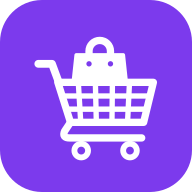
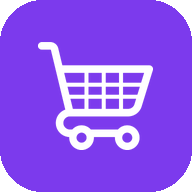
feat: ícono con la forma exacta del carrito de referencia, en blanco (v1.14)
Claude-Session: https://claude.ai/code/session_01DhVgd7Et6QmT3shziodnjZ

diff --git a/js/ui.js b/js/ui.js
@@ -42,12 +42,12 @@ export function icono(nombre) {
   return t.content.firstChild;
 }
 
-// Logo de la app: carrito con bolsa de tienda (mismo dibujo que icono.svg), en el color del texto.
-const LOGO = '<g fill="none" stroke="currentColor" stroke-width="15" stroke-linecap="round" stroke-linejoin="round"><path d="M138 70 V58 a22 22 0 0 1 44 0 V70"/></g><path d="M112 66 H208 L214 122 H106 Z" fill="currentColor" stroke="currentColor" stroke-width="8" stroke-linejoin="round"/><circle cx="138" cy="84" r="5.5" fill="#7c3aed"/><circle cx="182" cy="84" r="5.5" fill="#7c3aed"/><g fill="none" stroke="currentColor" stroke-linecap="round" stroke-linejoin="round"><path d="M34 84 H62 L76 122" stroke-width="16"/><path d="M74 122 H270 L250 204 H100 Z" stroke-width="15"/><path d="M83 150 H263 M91 177 H257 M116 122 L121 204 M151 122 L153 204 M186 122 L185 204 M221 122 L217 204" stroke-width="11"/><path d="M100 204 L88 222 Q82 236 98 236 H246" stroke-width="15"/></g><g fill="none" stroke="currentColor" stroke-width="12"><circle cx="122" cy="262" r="14"/><circle cx="222" cy="262" r="14"/></g>';
+// Logo de la app: el carrito blanco de logo-carrito.png (misma forma que el ícono instalado).
 export function logo() {
-  const t = document.createElement('template');
-  t.innerHTML = `<svg class="logo-svg" viewBox="20 12 270 278" aria-hidden="true">${LOGO}</svg>`;
-  return t.content.firstChild;
+  const img = document.createElement('img');
+  img.src = 'logo-carrito.png'; img.alt = ''; img.className = 'logo-img';
+  img.setAttribute('aria-hidden', 'true');
+  return img;
 }
 
 // h('button', {class:'btn', onclick}, 'texto', icono('x'))

diff --git a/sw.js b/sw.js
@@ -1,8 +1,8 @@
 // Permite instalar la app y abrirla sin internet. Las ventas las guarda Firebase (con su propia caché).
-const CACHE = 'pos-v1.13';
+const CACHE = 'pos-v1.14';
 const LIBS = 'libs-v1'; // Firebase y la fuente: archivos con versión fija
 const FOTOS = 'fotos-v1';
-const SHELL = ['./', './index.html', './config.js', './manifest.webmanifest', './icono-192.png', './icono-512.png',
+const SHELL = ['./', './index.html', './config.js', './manifest.webmanifest', './icono-192.png', './icono-512.png', './logo-carrito.png',
   './css/tokens.css', './css/base.css', './css/componentes.css',
   './js/principal.js', './js/app.js', './js/ui.js', './js/version.js'];
 

diff --git a/css/base.css b/css/base.css
@@ -54,5 +54,5 @@ button.pill>span{border:1px solid var(--line);background:var(--surface-2);border
   .vista{padding:12px}
 }
 @media (prefers-reduced-motion:reduce){*,*::before,*::after{animation-duration:.01ms!important;transition-duration:.01ms!important}}
-.logo-svg{width:30px;height:30px}
-.entrar-logo .logo-svg{width:36px;height:36px}
+.logo-img{width:28px;height:28px;object-fit:contain;display:block}
+.entrar-logo .logo-img{width:34px;height:34px}

diff --git a/js/version.js b/js/version.js
@@ -1,2 +1,2 @@
 // Sube en cada cambio publicado, junto con CACHE en sw.js.
-export const APP_VERSION = 'v1.13';
+export const APP_VERSION = 'v1.14';
